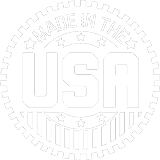
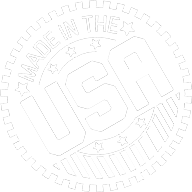
Order and made in fixes.

diff --git a/app/assets/stylesheets/application.scss b/app/assets/stylesheets/application.scss
@@ -59,15 +59,15 @@ p.done {
 
 img.made-in {
   position: absolute;
-  bottom: 10px;
-  left: 10px;
+  bottom: 30px;
+  left: 30px;
 }
 
 @media (max-width: 400px) { 
   img.made-in {
-    top: 10px;
+    top: 30px;
     width: 100px;
-    right: 10px;
+    right: 30px;
     left: inherit;
     bottom: inherit;
   }

diff --git a/app/assets/stylesheets/panel.scss b/app/assets/stylesheets/panel.scss
@@ -42,8 +42,8 @@
   position: fixed !important;
   font-size: 16px;
   font-family: liberator;
-  top: 10px !important;
-  left: -65% !important;
+  top: 30px !important;
+  left: -50px !important;
   width: 250px !important;
   height: 250px !important;
 
